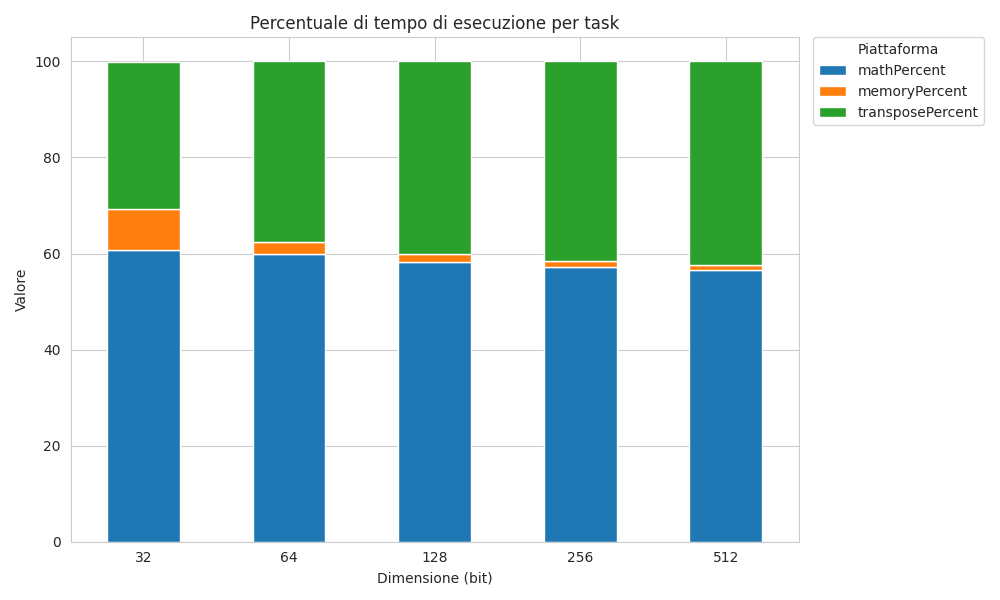
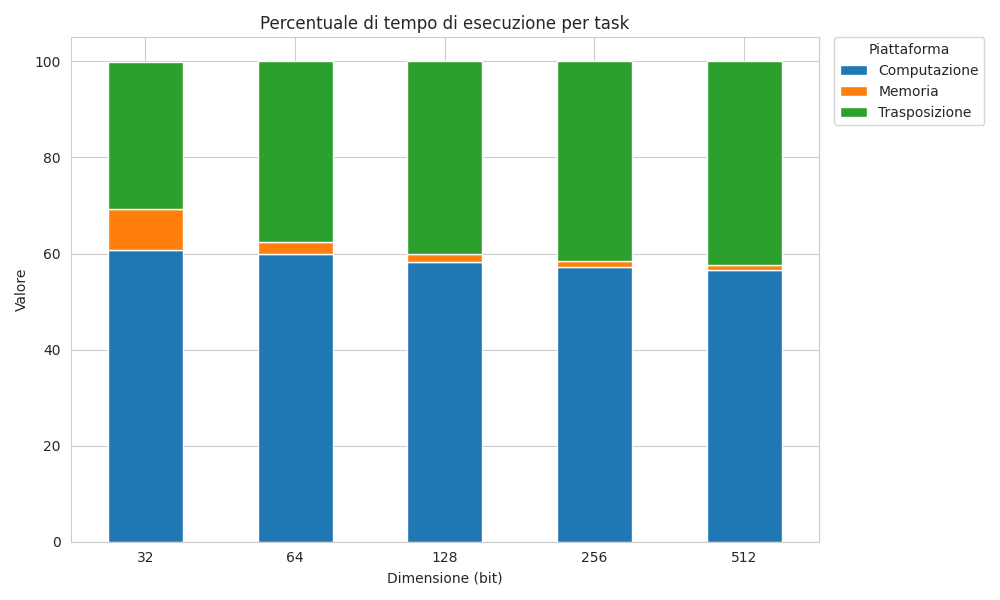
Corrette le etichette

diff --git a/chatsAI.py b/chatsAI.py
@@ -82,6 +82,7 @@ def createChart(filename, img_filename):
     fig, ax = plt.subplots(figsize=(10, 6))
     pivot_df.plot(kind='bar', stacked=True, ax=ax)
     
+    print(pivot_df)
     
     plt.xticks(rotation=0)
     # plt.xlabel('Dimensione (bit)')
@@ -109,16 +110,7 @@ def createChart(filename, img_filename):
 
     # Applica la mappatura solo alla legenda
     new_labels = [legend_labels.get(label, label) for label in labels]
-    ax.legend(handles, new_labels, title='Piattaforma', bbox_to_anchor=(1.02, 1), loc='upper left')
-
-    # Legenda fuori dal grafico, a destra
-    ax.legend(
-        title='Piattaforma',
-        bbox_to_anchor=(1.02, 1),
-        loc='upper left',
-        borderaxespad=0.
-    )
-    
+    ax.legend(handles, labels=new_labels, title='Piattaforma', bbox_to_anchor=(1.02, 1), loc='upper left',borderaxespad=0.)    
     
     plt.tight_layout()
     plt.savefig(img_filename + '.png')
